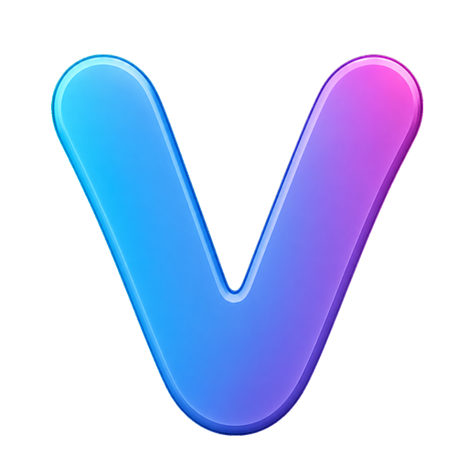
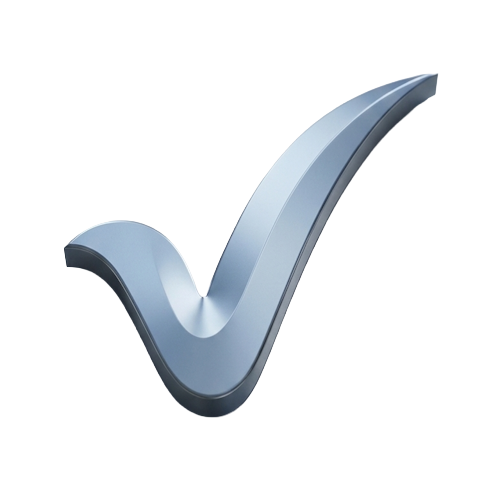
feat: adopt the new Vectora brand mark and brand the login page
Replaces the gradient-V mark with the Vectora check everywhere the app
draws it, and gives Frappe's login page a split-screen brand treatment.

The SVG is vectorised from the artwork's alpha channel rather than
redrawn by eye: 500x500 render -> 1582-point contour -> 44 points after
Douglas-Peucker at eps=1.0 -> closed Catmull-Rom beziers, checked
against the original by overlay. Its gradient is sampled from the flat
lockup but held in a mid-luminance band, because the artwork's deepest
navy (#152b44) is invisible against the dark sidebar (#171922).

Login styling ships as a hashed bundle, not a raw /assets path: raw
paths are served with max-age=43200 and no version stamp, so an edit
would not reach anyone who had loaded the page in the last 12 hours.

The brand panel's artwork is feathered with a mask deliberately smaller
than the image in BOTH axes -- an earlier mask overshot vertically,
which is why the photo's top and bottom edges stayed visible however
much its sides were faded. On narrow screens the feather is dropped
entirely: the banner is full-bleed, so there is no free edge to hide,
and feathering there ate into the wordmark.

Also sets Navbar Settings' app_logo at install. Frappe renders the login
logo from site data, not from hooks, so app_icon_url does not cover it
and a fresh site would show the Frappe Framework logo above "Sign In".

diff --git a/crm/public/scss/login.bundle.scss b/crm/public/scss/login.bundle.scss
@@ -1,0 +1,268 @@
+/* Vectora — website/login branding.
+ *
+ * Loaded through `web_include_css` (hooks.py), which applies to every website
+ * page, so every rule here is scoped under `body:has(.login-content)`. That
+ * class is on the card in each of Frappe's login sections (sign-in, sign-up,
+ * forgot-password, email-link), so the treatment follows the user through the
+ * whole flow rather than only the first screen.
+ *
+ * We do NOT override frappe/www/login.html. The markup is the vendor's; only
+ * its presentation is ours, which keeps the login logic upstream's problem.
+ */
+
+/* ── tokens ──────────────────────────────────────────────────────────────
+ * Sampled from the artwork rather than invented: the panel's vertical falloff
+ * is brand.jpeg's own top and bottom edge tone (#d0d7de / #a5adb7), and the
+ * inks are the flat lockup's wordmark navy and mark blue.
+ */
+body:has(.login-content) {
+  --v-metal-top: #d0d7de;
+  --v-metal-bottom: #a5adb7;
+  --v-ink: #18304c;
+  --v-ink-soft: #5b6b80;
+  --v-line: #dfe3ea;
+  --v-focus: #2f6d95;
+  --v-panel-w: 54vw;
+
+  background: #fff;
+}
+
+/* ── the brand panel ─────────────────────────────────────────────────────
+ * Two fixed layers: a metal ground (::before) and the lockup (::after),
+ * feathered into it. Fixed rather than absolute so the artwork stays
+ * optically still while a longer form (sign-up) scrolls beside it.
+ */
+body:has(.login-content)::before,
+body:has(.login-content)::after {
+  content: '';
+  position: fixed;
+  inset: 0 auto 0 0;
+  width: var(--v-panel-w);
+  pointer-events: none;
+}
+
+body:has(.login-content)::before {
+  background:
+    radial-gradient(
+      120% 90% at 50% 38%,
+      rgba(255, 255, 255, 0.5) 0%,
+      rgba(255, 255, 255, 0) 62%
+    ),
+    linear-gradient(180deg, var(--v-metal-top) 0%, var(--v-metal-bottom) 100%);
+  z-index: 0;
+}
+
+/* The mask must be smaller than the artwork in BOTH axes, or whichever axis it
+ * overshoots keeps a hard edge. brand.jpeg is 1454x720, so at min(96%, 700px)
+ * wide it renders ~347px tall: half-extents of ~45% of the panel's width but
+ * only ~19% of its height. An earlier 30% vertical radius sat outside the
+ * image, which is why its top and bottom edges stayed visible however much the
+ * sides were feathered.
+ *
+ * (An attempt to solve this by blurring the same photograph as the ground was
+ * reverted: `filter` on a fixed pseudo-element cannot be clipped to the panel,
+ * so the blur bled across the form column.) */
+body:has(.login-content)::after {
+  background: url('/assets/crm/images/brand.jpeg') center center / min(96%, 700px)
+    auto no-repeat;
+  -webkit-mask-image: radial-gradient(
+    ellipse 44% 18% at 50% 50%,
+    #000 52%,
+    transparent 100%
+  );
+  mask-image: radial-gradient(
+    ellipse 44% 18% at 50% 50%,
+    #000 52%,
+    transparent 100%
+  );
+  z-index: 1;
+}
+
+/* The divider hangs off the content column, not the panel, so it stays a crisp
+ * hairline independent of whatever the panel layers are doing. */
+body:has(.login-content) .page-content-wrapper::before {
+  content: '';
+  position: fixed;
+  inset: 0 auto 0 calc(var(--v-panel-w) - 1px);
+  width: 1px;
+  background: rgba(24, 48, 76, 0.14);
+  z-index: 2;
+  pointer-events: none;
+}
+
+/* ── the form column ─────────────────────────────────────────────────────*/
+body:has(.login-content) .page-content-wrapper {
+  margin-left: var(--v-panel-w);
+  min-height: 100vh;
+  display: flex;
+  align-items: center;
+  position: relative;
+  z-index: 1;
+}
+
+body:has(.login-content) main.container {
+  max-width: 480px;
+  width: 100%;
+  padding: 40px 32px;
+}
+
+/* Flat, not floating: the panel beside it already carries the depth, and two
+ * competing elevations read as indecision. */
+body:has(.login-content) .login-content.page-card {
+  background: transparent;
+  border: 0;
+  box-shadow: none;
+  padding: 0;
+  max-width: none;
+  width: 100%;
+}
+
+body:has(.login-content) .app-logo {
+  width: 44px;
+  height: 44px;
+  margin-bottom: 4px;
+}
+
+body:has(.login-content) .page-card-head-text h1,
+body:has(.login-content) .page-card-head-text .page-card-head-title {
+  color: var(--v-ink);
+  font-weight: 700;
+  letter-spacing: -0.02em;
+}
+
+body:has(.login-content) .page-card-subtitle {
+  color: var(--v-ink-soft);
+}
+
+/* Frappe's web footer renders here as a 140px block whose every child measures
+ * zero height -- empty chrome. Left in place it pushes past the full-height
+ * wrapper and puts a scrollbar on a page that otherwise fits. */
+body:has(.login-content) .web-footer {
+  display: none;
+}
+
+/* ── controls ────────────────────────────────────────────────────────────
+ * Matched to the app's own control radius and focus treatment, so signing in
+ * and using the product feel like one product.
+ */
+
+/* The field wrappers size to their content by default, which left the inputs
+ * visibly narrower than the buttons beneath them once the column was
+ * constrained. Everything in the form shares one measure. */
+body:has(.login-content) .email-field,
+body:has(.login-content) .password-field {
+  width: 100%;
+}
+
+body:has(.login-content) .form-control {
+  width: 100%;
+  border-radius: 6px;
+  border: 1px solid var(--v-line);
+  padding: 9px 12px;
+  font-size: 14px;
+  transition:
+    border-color 120ms ease,
+    box-shadow 120ms ease;
+}
+
+body:has(.login-content) .form-control:focus,
+body:has(.login-content) .form-control:focus-visible {
+  border-color: var(--v-focus);
+  box-shadow: 0 0 0 3px rgba(47, 109, 149, 0.18);
+  outline: none;
+}
+
+/* The show/hide-password control is positioned by the vendor against a field
+ * box we have just re-sized, so we re-anchor it rather than let it fall
+ * beneath the input. Padding keeps typed text clear of it. */
+body:has(.login-content) .password-field {
+  position: relative;
+}
+
+body:has(.login-content) .password-field .form-control {
+  padding-right: 38px;
+}
+
+body:has(.login-content) .password-field .toggle-password {
+  position: absolute;
+  top: 50%;
+  right: 12px;
+  transform: translateY(-50%);
+  margin: 0;
+  cursor: pointer;
+  color: var(--v-ink-soft);
+}
+
+body:has(.login-content) .es-button[data-variant='solid'] {
+  background: var(--v-ink);
+  border-radius: 6px;
+  font-weight: 600;
+  padding: 10px 16px;
+  transition: background 120ms ease;
+}
+
+body:has(.login-content) .es-button[data-variant='solid']:hover {
+  background: #22415f;
+}
+
+/* Keyboard focus must stay obvious on every actionable element, including the
+ * secondary link-buttons that carry no background of their own. */
+body:has(.login-content) .es-button:focus-visible,
+body:has(.login-content) a:focus-visible {
+  outline: 2px solid var(--v-focus);
+  outline-offset: 2px;
+}
+
+/* ── narrow screens ──────────────────────────────────────────────────────
+ * Below 900px the split stops earning its space: the panel becomes a short
+ * banner above the form rather than squeezing both into half a phone.
+ */
+@media (max-width: 900px) {
+  body:has(.login-content)::before,
+  body:has(.login-content)::after {
+    position: absolute;
+    inset: 0 0 auto 0;
+    width: 100%;
+    height: 176px;
+  }
+
+  /* No feather here, and the ground layer is redundant: the banner is
+   * full-bleed, so the artwork has no free edge to give itself away. Feathering
+   * it at this size actively hurt -- brand.jpeg's lockup fills most of its
+   * frame, so there is almost no metal margin to fade into and the mask ate
+   * into the wordmark instead. `cover` crops a little top and bottom, which the
+   * lockup has room for. */
+  body:has(.login-content)::after {
+    background-size: cover;
+    background-position: center;
+    -webkit-mask-image: none;
+    mask-image: none;
+  }
+
+  body:has(.login-content) .page-content-wrapper::before {
+    display: none;
+  }
+
+  body:has(.login-content) .page-content-wrapper {
+    margin-left: 0;
+    min-height: auto;
+    align-items: flex-start;
+    padding-top: 176px; /* clears the absolutely-positioned banner above */
+  }
+
+  body:has(.login-content) main.container {
+    margin: 0 auto;
+    padding: 28px 20px 48px;
+  }
+}
+
+/* A fixed layer behaves like a parallax surface while the column scrolls.
+ * Someone who has asked for less motion should get a panel that scrolls with
+ * the page instead. */
+@media (prefers-reduced-motion: reduce) {
+  body:has(.login-content)::before,
+  body:has(.login-content)::after,
+  body:has(.login-content) .page-content-wrapper::before {
+    position: absolute;
+  }
+}

diff --git a/frontend/src/components/Icons/CRMLogo.vue b/frontend/src/components/Icons/CRMLogo.vue
@@ -1,8 +1,8 @@
 <template>
   <svg
-    width="300"
-    height="300"
-    viewBox="0 0 300 300"
+    width="64"
+    height="64"
+    viewBox="0 0 64 64"
     fill="none"
     role="img"
     :aria-hidden="decorative || undefined"
@@ -12,24 +12,27 @@
     <defs>
       <linearGradient
         :id="gradientId"
-        x1="44"
-        y1="60"
-        x2="256"
-        y2="80"
+        x1="8"
+        y1="52"
+        x2="58"
+        y2="10"
         gradientUnits="userSpaceOnUse"
       >
-        <stop offset="0" stop-color="#21ABFB" />
-        <stop offset="0.55" stop-color="#5B5FE8" />
-        <stop offset="1" stop-color="#DF5FEB" />
+        <stop offset="0" stop-color="#4aa3bd" />
+        <stop offset="0.45" stop-color="#2f6d95" />
+        <stop offset="1" stop-color="#1e4a6d" />
       </linearGradient>
     </defs>
-    <path
-      d="M72 56L150 236L228 56"
-      :stroke="`url(#${gradientId})`"
-      stroke-width="52"
-      stroke-linecap="round"
-      stroke-linejoin="round"
-    />
+    <!-- The mark is the Vectora check, vectorised from the brand artwork's
+         alpha channel (500x500 render -> 1582-point contour -> 44 points after
+         Douglas-Peucker at eps=1.0 -> closed Catmull-Rom beziers). Filled, not
+         stroked: the shape has a varying width the old two-segment stroke
+         could not express.
+
+         The gradient is sampled from the flat lockup but held in a mid
+         luminance band on purpose -- the artwork's deepest navy (#152b44)
+         is invisible against the dark sidebar (#171922). -->
+    <path d="M26.95 59.56 C26.23 59.72 25.45 59.67 24.86 59.62 C24.27 59.57 23.92 59.46 23.41 59.26 C22.91 59.07 22.38 58.85 21.81 58.47 C21.24 58.09 20.77 57.95 19.99 56.98 C19.20 56.01 18.18 54.60 17.10 52.64 C16.02 50.68 14.62 47.36 13.51 45.24 C12.40 43.13 11.25 41.17 10.44 39.94 C9.62 38.71 9.25 38.45 8.60 37.85 C7.95 37.25 7.20 36.72 6.53 36.36 C5.87 36.00 5.29 35.86 4.60 35.71 C3.92 35.55 2.85 35.99 2.42 35.44 C1.99 34.88 1.69 33.24 2.00 32.38 C2.31 31.53 3.30 30.94 4.30 30.29 C5.30 29.64 6.72 28.86 7.98 28.48 C9.24 28.09 10.69 27.97 11.84 28.00 C12.99 28.02 13.93 28.28 14.89 28.62 C15.86 28.97 16.76 29.42 17.63 30.08 C18.49 30.73 19.37 31.65 20.08 32.54 C20.79 33.44 21.26 34.21 21.87 35.44 C22.47 36.67 23.32 39.13 23.71 39.94 C24.10 40.75 24.05 40.23 24.22 40.27 C24.38 40.32 24.15 41.41 24.70 40.21 C25.26 39.00 26.38 35.59 27.55 33.03 C28.72 30.46 30.31 27.21 31.70 24.83 C33.10 22.44 34.55 20.47 35.92 18.72 C37.30 16.97 38.90 15.40 39.97 14.32 C41.05 13.24 41.42 12.98 42.39 12.23 C43.35 11.49 44.42 10.66 45.76 9.85 C47.10 9.05 48.92 8.09 50.42 7.41 C51.92 6.73 53.37 6.24 54.77 5.79 C56.16 5.34 57.58 4.92 58.78 4.68 C59.99 4.45 61.53 3.86 62.00 4.38 C62.47 4.90 62.17 6.90 61.60 7.78 C61.04 8.67 59.86 8.69 58.62 9.68 C57.39 10.67 55.38 12.52 54.17 13.73 C52.97 14.94 52.46 15.53 51.37 16.95 C50.28 18.37 48.82 20.41 47.64 22.25 C46.45 24.10 45.25 26.25 44.28 28.04 C43.31 29.84 43.73 28.66 41.84 33.03 C39.95 37.39 34.62 50.39 32.95 54.25 C31.27 58.11 32.20 55.60 31.79 56.18 C31.38 56.75 30.92 57.27 30.49 57.69 C30.06 58.11 29.79 58.38 29.20 58.69 C28.61 59.00 27.68 59.40 26.95 59.56 Z" :fill="`url(#${gradientId})`" />
   </svg>
 </template>
 
@@ -44,5 +47,5 @@ defineProps({
 
 // SVG gradient ids are document-global: two instances of a fixed id make the
 // second mark reference the first one's (possibly unmounted) gradient node.
-const gradientId = `vectora-v-gradient-${useId()}`
+const gradientId = `vectora-mark-${useId()}`
 </script>

diff --git a/crm/install.py b/crm/install.py
@@ -38,9 +38,28 @@ def after_install(force=False):
 	ensure_agent_role()
 	apply_endpoint_defaults()
 	ensure_zar_currency()
+	ensure_app_logo()
 	# install/migrate runs outside a request, so nothing else will commit the
 	# fixtures created above.
 	frappe.db.commit()  # nosemgrep: frappe-manual-commit
+
+
+def ensure_app_logo():
+	"""Point Frappe's login page at the Vectora mark.
+
+	``frappe/www/login.py`` renders the logo from ``get_app_logo()``, which
+	reads Navbar Settings -- site data, not a hook -- so ``app_icon_url`` in
+	hooks.py does not cover it. Without this, a freshly installed site shows the
+	Frappe Framework logo above "Sign In": the first screen anyone outside the
+	product ever sees, unbranded.
+
+	Only claims the field while it still holds a Frappe default. An operator who
+	has set their own logo keeps it.
+	"""
+	current = frappe.db.get_single_value("Navbar Settings", "app_logo") or ""
+	if current and not current.startswith("/assets/frappe/"):
+		return
+	frappe.db.set_single_value("Navbar Settings", "app_logo", "/assets/crm/images/logo.svg")
 
 
 def ensure_zar_currency():

diff --git a/crm/hooks.py b/crm/hooks.py
@@ -38,7 +38,17 @@ require_type_annotated_api_methods = True
 # app_include_js = "/assets/crm/js/crm.js"
 
 # include js, css files in header of web template
-# web_include_css = "/assets/crm/css/crm.css"
+# Vectora branding for the website pages -- in practice the login flow, which
+# is the first screen anyone outside the product ever sees. Every rule in that
+# file is scoped under `body:has(.login-content)` so enabling it here does not
+# restyle other website pages. We deliberately do not override
+# frappe/www/login.html: the markup stays upstream's, only its presentation is
+# ours.
+# Referenced as a bundle (not a raw /assets path) so the build hashes the
+# filename. A raw path is served with `max-age=43200` and no version stamp,
+# so an edit would not reach anyone who had loaded the page in the last 12
+# hours -- including, say, the morning of a demo.
+web_include_css = "login.bundle.css"
 # web_include_js = "/assets/crm/js/crm.js"
 
 # include custom scss in every website theme (without file extension ".scss")
